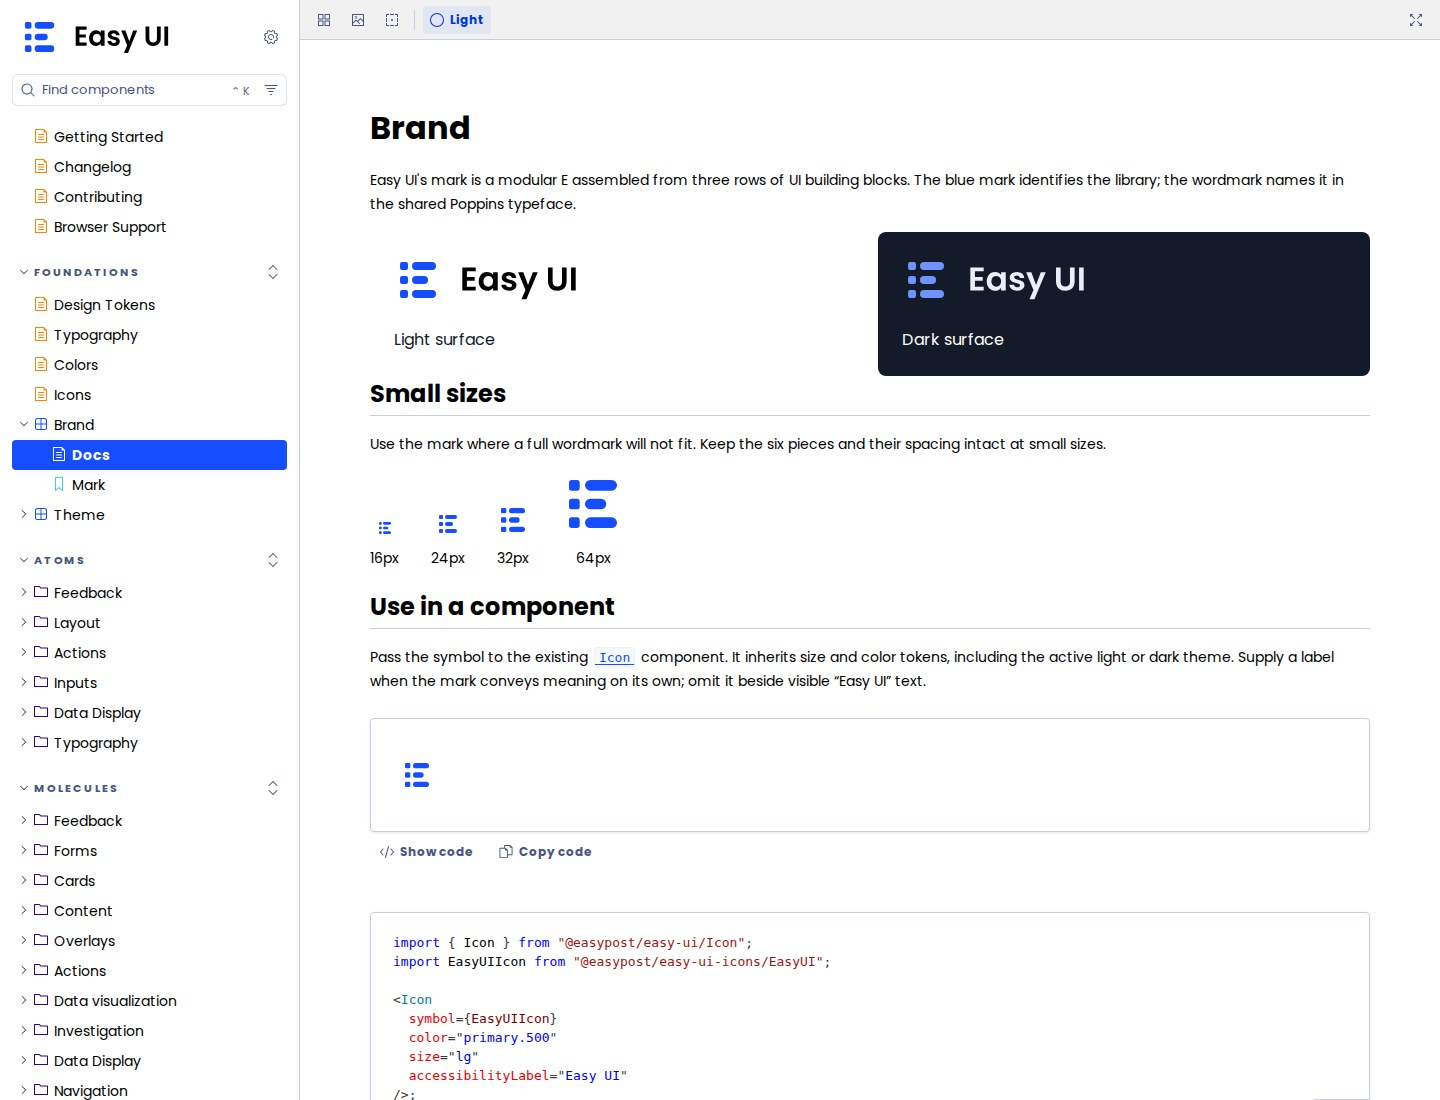
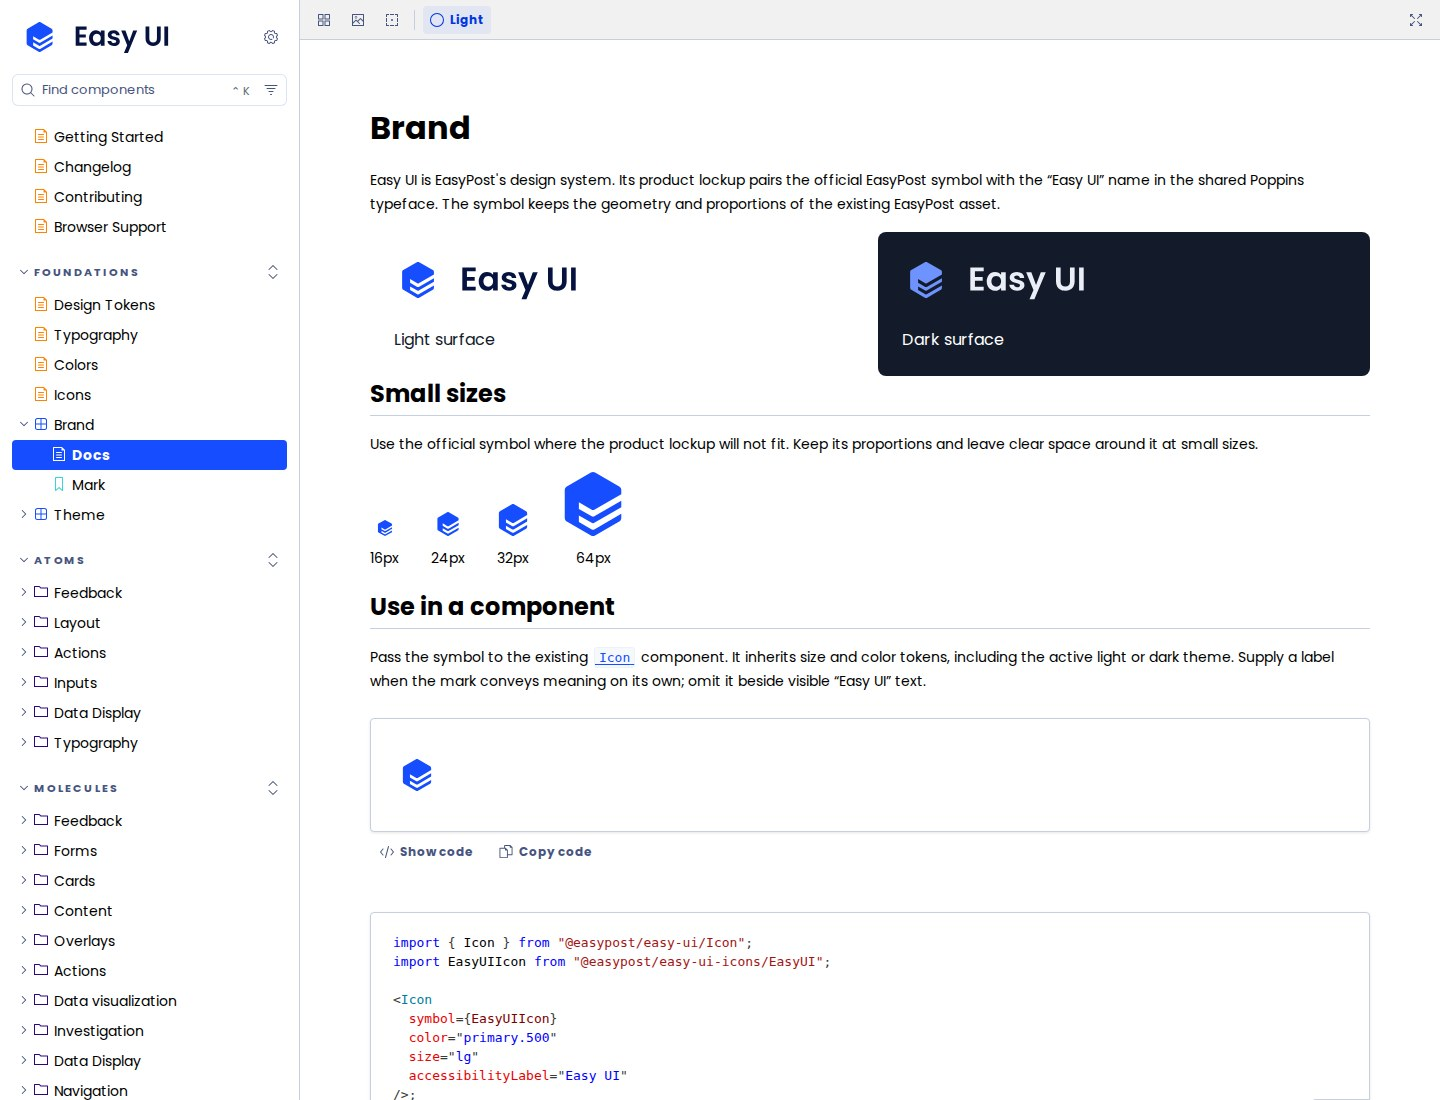
Use the official EasyPost symbol for Easy UI branding

diff --git a/documentation/brand/README.md b/documentation/brand/README.md
@@ -1,12 +1,25 @@
 # Easy UI brand
 
-The mark is a modular E, assembled from three rows of UI building blocks.
-It uses EasyPost's existing brand blue while identifying Easy UI itself.
+Easy UI is EasyPost's design system. Its product lockup pairs the official
+EasyPost symbol with the “Easy UI” name in the library's Poppins typeface.
+The mark is reused from `.storybook/public/favicon.svg`, which predates this
+change. Its path data and 512 × 512 viewBox remain unchanged; the component's
+fill inherits color through the existing Icon API.
 
 `easy-ui-icons/src/EasyUI.svg` is the canonical monochrome mark. The icon build
 publishes it as `@easypost/easy-ui-icons/EasyUI` and `svg/EasyUI.svg`. Use it
 through the existing `Icon` component for theme colors and accessible labels.
 The mark has no weight variants.
+
+The blue and navy light lockup colors match the existing
+`.storybook/public/easypost-logo.svg`; the dark colors match
+`easypost-logo-dark.svg`. The generated assets use the corresponding Easy UI
+tokens. The company symbol stays intact: do not redraw it or insert UI shapes.
+This is an Easy UI product lockup, not a replacement for the official EasyPost
+company wordmark.
+
+References: [EasyPost](https://www.easypost.com/) and the original brand designer's
+[EasyPost identity case study](https://movingbrands.com/work/easypost/).
 
 `wordmark.svg` outlines “Easy UI” in the bundled Poppins Semibold font.
 The font is licensed under the [SIL Open Font License](../../.storybook/public/fonts/poppins/OFL.txt).

diff --git a/.changeset/easy-ui-brand-icon.md b/.changeset/easy-ui-brand-icon.md
@@ -2,8 +2,8 @@
 "@easypost/easy-ui-icons": minor
 ---
 
-Add the EasyUI brand symbol as a React icon and raw SVG, with matching Storybook
-branding and favicon assets.
+Add the EasyUI brand symbol as a React icon and raw SVG, reusing the official
+EasyPost mark with matching product wordmarks and favicon assets in Storybook.
 
 Compile custom SVGs into React components before Vite's asset loader and retain
 the published package's module, type, and raw-SVG exports.
